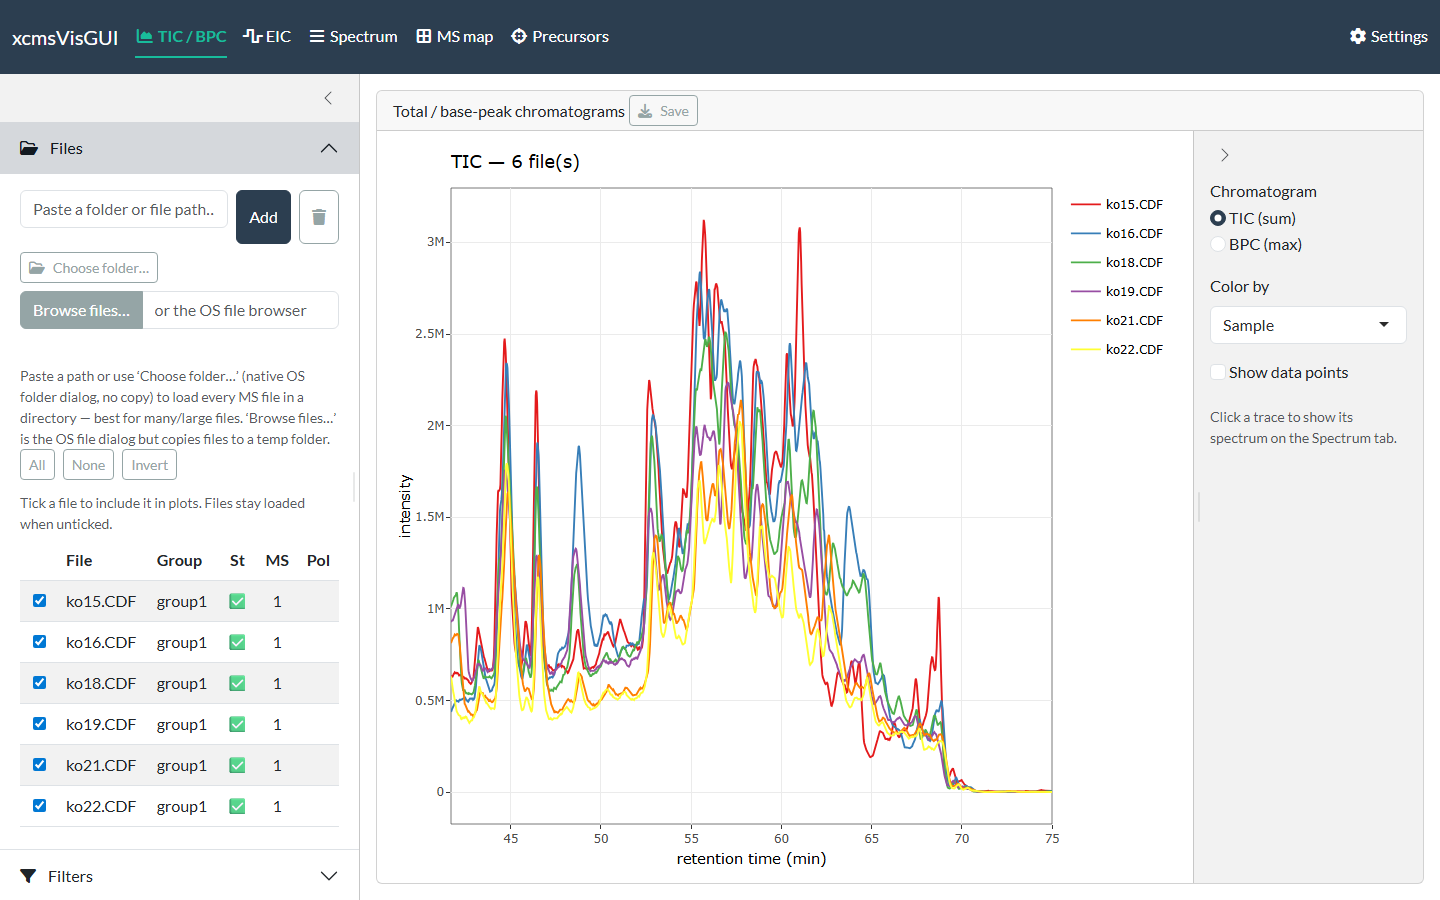
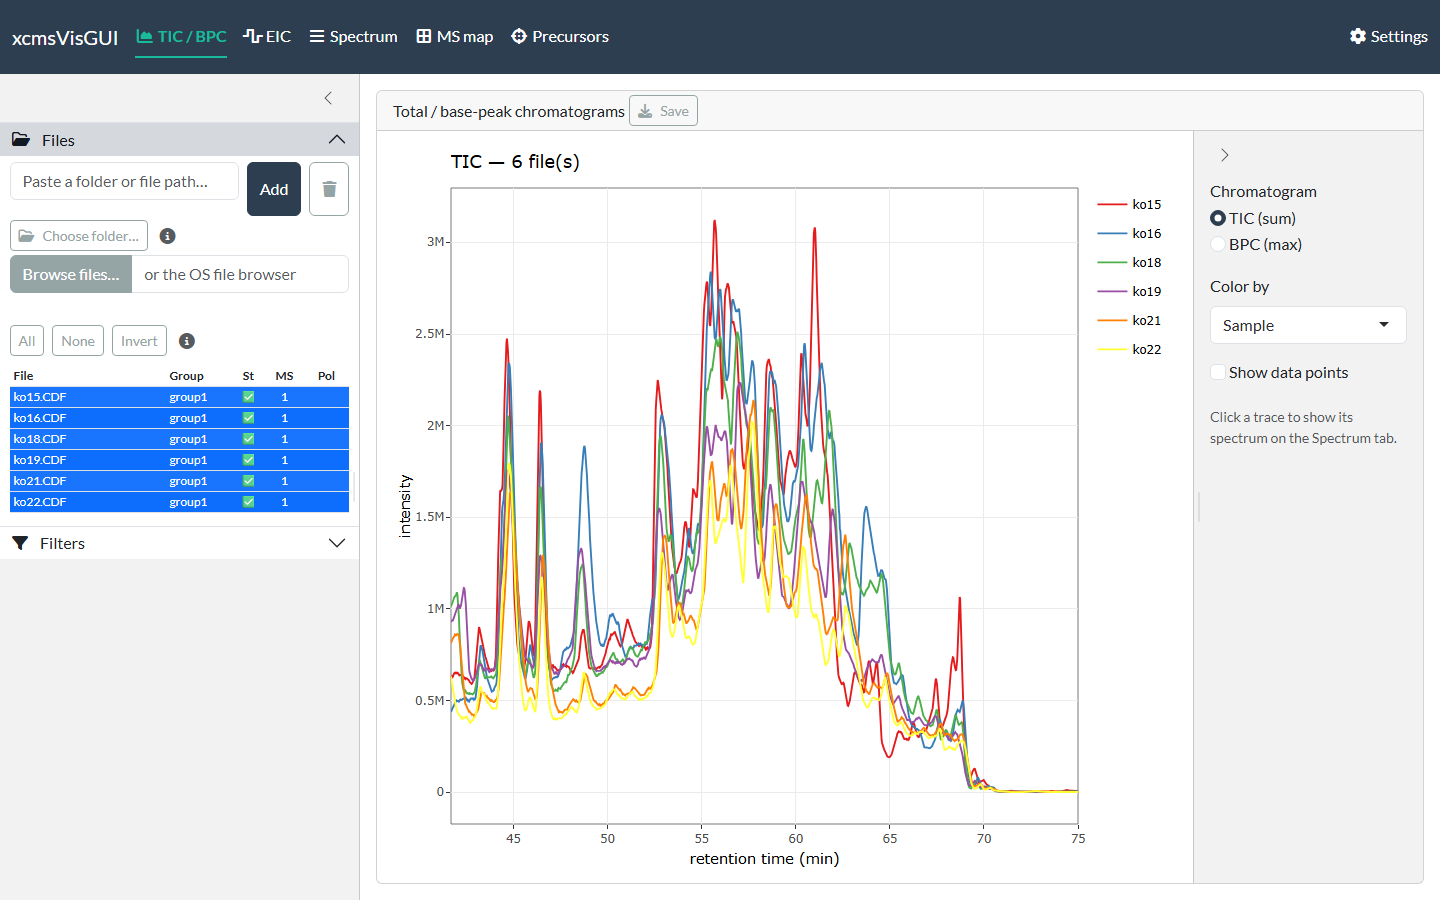
docs: refresh usage guide for row-selection, spectrum-ID rules, annotation
Update the pkgdown usage article and README to match the current UI:
- file inclusion is now click-to-select rows (not checkboxes), with the
  Group renamed by double-click; refresh tic.png to show it.
- the spectrum-ID filter is now repeatable contains/exclude rules;
  refresh filters.png and describe the rules + the "no spectra match"
  message.
- add annotation.png and place it in the annotation section (the
  headline feature previously had no screenshot).
- README status now lists the annotation feature and the rules.

Screenshots are regenerated headlessly via chromote (tools/shoot.R for
TIC/Filters on faahKO; tools/shoot_annot.R for the annotation overlay),
captured at 1440x900 to match the existing figures.

diff --git a/README.md b/README.md
@@ -12,10 +12,15 @@ and decision log (it also folds in the original implementation plan).
 
 Working: async file ingestion, settings (ColorBrewer/viridis palette, retention-time
 unit, default EIC tolerance, export defaults — persisted across restarts), global
-filters (rt / m/z / MS level / polarity / intensity / spectrum-id), and all raw-data
-plot views — TIC/BPC, multi-EIC, click-to-spectrum (+ scan-list browser), 2D MS map,
-3D (points/surface), and DDA precursor ions. Scope is **raw visualisation only** — no
-peak picking / grouping / alignment (deferred; see `ARCHITECTURE_REVIEW.md`).
+filters (rt / m/z / MS level / polarity / intensity / repeatable spectrum-id rules),
+and all raw-data plot views — TIC/BPC, multi-EIC, click-to-spectrum (+ scan-list
+browser), 2D MS map, 3D (points/surface), and DDA precursor ions. The Spectrum view
+also does single-spectrum **adduct / isotope / in-source-fragment annotation**
+(manual anchor, findMAIN auto-suggest, or difference network), using the
+[commonMZ](https://github.com/stanstrup/commonMZ) dictionary +
+[InterpretMSSpectrum](https://cran.r-project.org/package=InterpretMSSpectrum). Scope is
+**raw visualisation only** — no peak picking / grouping / alignment (deferred; see
+`ARCHITECTURE_REVIEW.md`).
 
 Extraction results are cached to disk (qs2), so re-opening the app with the same files +
 filter is instant. Figures export as png/svg/pdf or as the raw ggplot object (rds) for